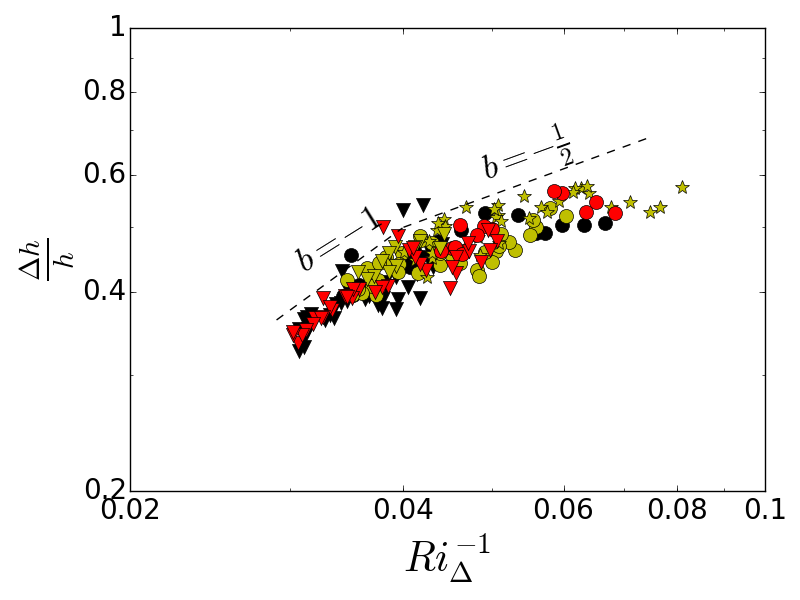
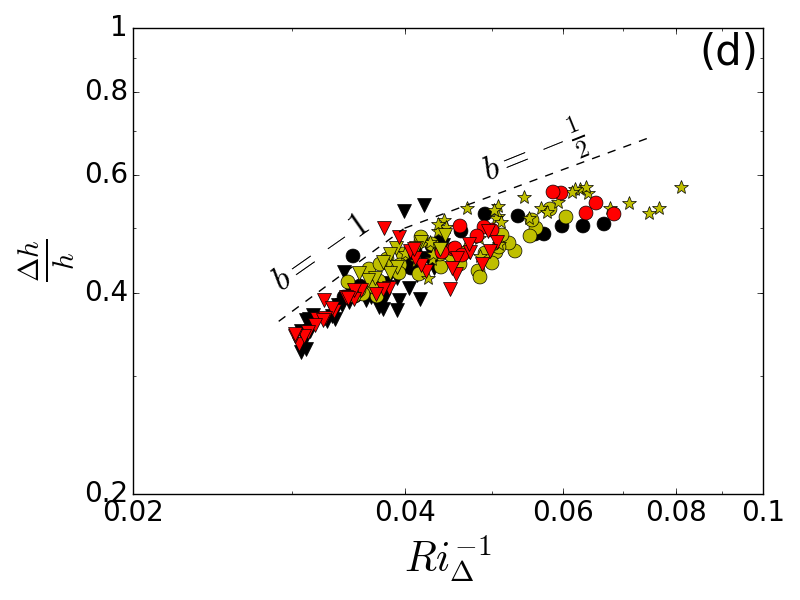
finished todos

diff --git a/nchap_sub.tex b/nchap_sub.tex
@@ -476,7 +476,7 @@ In Fig. \ref{fig:weinvri} (a) and (b) the axes are in log-log coordinates and al
 
 \begin{figure}[htbp]
 \begin{minipage}[b]{0.5\linewidth}
-        %98568f get_limits.py and plot_height.py
+        %98568f get_limits.py, had to updated data folders /tera/users/nchaparr/ and 9d2074b plot_height.py had to change xaxis labels and add the text (a) Ax.text(x, y, r"'', fontsize=30)
         \subfloat[]{\label{main:a}
                 \includegraphics[scale=.3]{figures/scaledweinvri_delta_f_GM.png}}\\
 %        \subfloat[]{\label{main:b}
@@ -485,7 +485,7 @@ In Fig. \ref{fig:weinvri} (a) and (b) the axes are in log-log coordinates and al
 \end{minipage}             
 \quad
 \begin{minipage}[b]{0.5\linewidth}
-  %e4477b get_limits.py, ef6bfa plot_height.py      
+  %e4477b get_limits.py, ef6bfa plot_height.py, used the second commit for both running limits and plotting, had to edit folders and add text as above      
   %      \subfloat[]{\label{main:a}
    %             \includegraphics[scale=.3]{figures/scaledweinvri_delta_f_GM.png}}\\
         \subfloat[]{\label{main:b}
